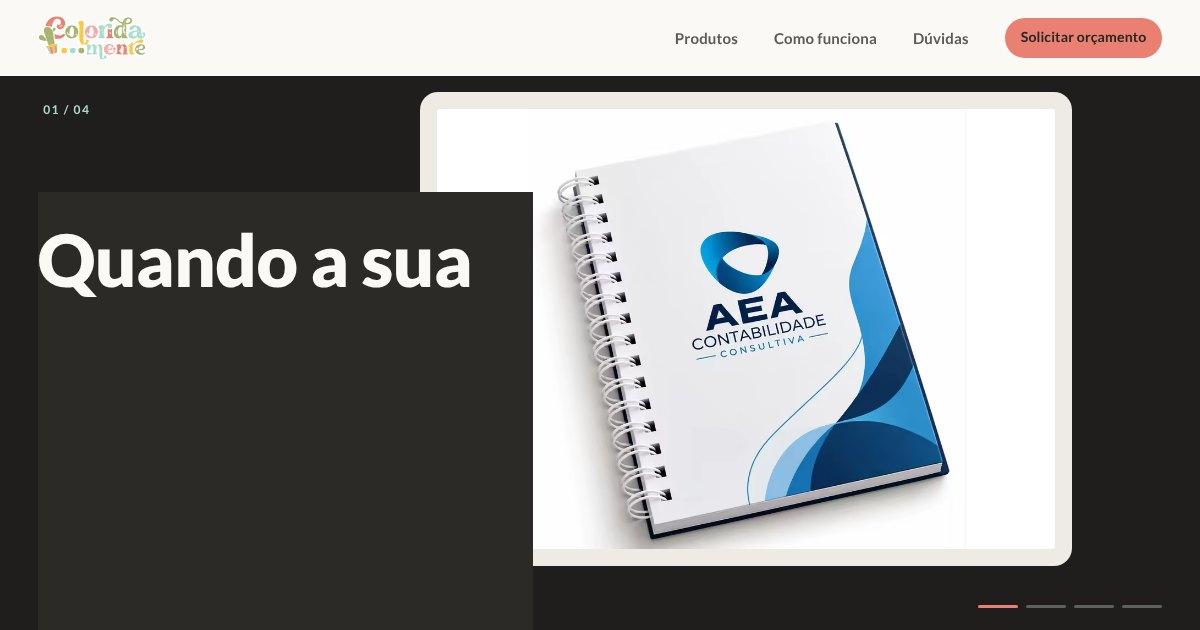
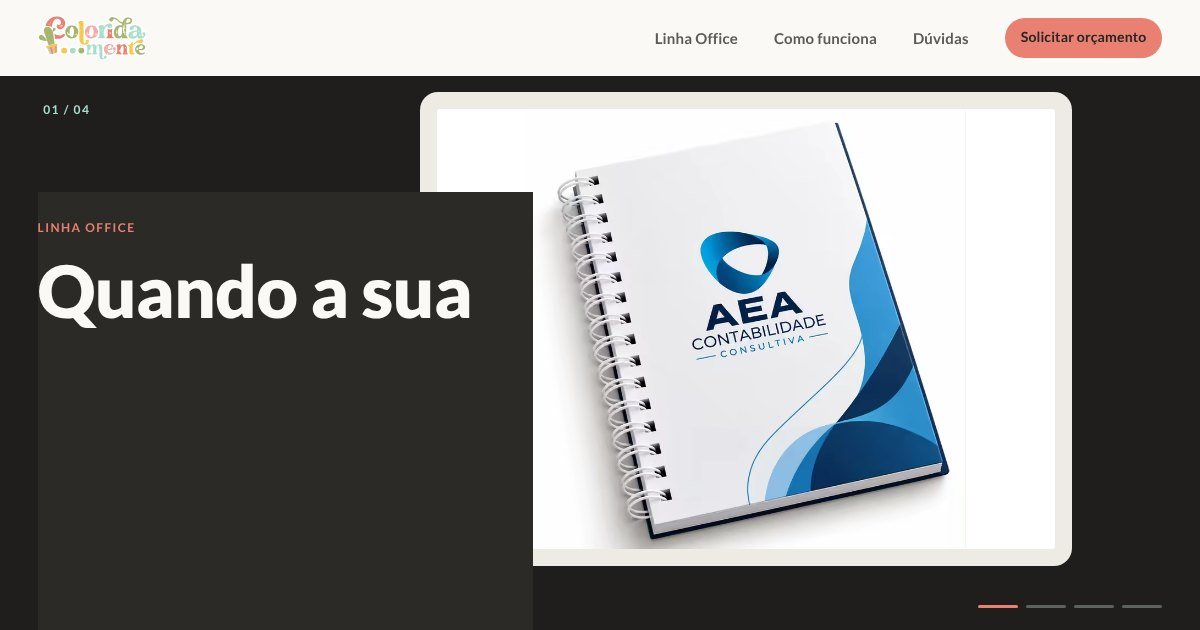
Site passa a vender a Linha Office
Etiqueta do hero, navegação, seção de itens ("Monte a sua Linha
Office"), novo bloco "Linha Office completa" com todos os itens no
mesmo pedido, pergunta "O que vem na Linha Office?", fechamento,
metadados e todas as mensagens de WhatsApp identificando a Linha Office.
Imagens de compartilhamento regeradas.

Claude-Session: https://claude.ai/code/session_016HvwGFXjY8Fn2UzpmPKR8j

Changed region(s): [[0.0308, 0.3317, 0.4008, 0.5429], [0.555, 0.0302, 0.6167, 0.0905]]

diff --git a/tests/institucional.spec.ts b/tests/institucional.spec.ts
@@ -5,33 +5,37 @@ test.describe('proposta 04 — institucional premium', () => {
   test('hero com etiqueta, título, texto, CTA e categorias', async ({ page }) => {
     await page.goto('/');
     const hero = page.locator('section').first();
-    await expect(hero.getByText('Produtos personalizados para empresas')).toBeVisible();
+    await expect(hero.getByText('Linha Office', { exact: true })).toBeVisible();
     await expect(hero.locator('h1')).toBeVisible();
-    await expect(hero.getByText(/receba o seu orçamento pelo WhatsApp/)).toBeVisible();
-    const cta = hero.getByRole('link', { name: /Solicitar orçamento/ });
+    await expect(hero.getByText(/A Linha Office reúne agenda, cadernos e acessórios/)).toBeVisible();
+    const cta = hero.getByRole('link', { name: /Quero a Linha Office/ });
     await expect(cta).toBeVisible();
     expect(await cta.getAttribute('href')).toContain(`wa.me/${WHATSAPP_NUMBER}`);
-    for (const tag of ['Papelaria', 'Corporativo', 'Acessórios para escritório']) await expect(hero.getByText(tag, { exact: true })).toBeVisible();
+    for (const tag of ['Agenda', 'Cadernos', 'Acessórios para escritório']) await expect(hero.getByText(tag, { exact: true })).toBeVisible();
     const bg = await hero.evaluate((el) => getComputedStyle(el).backgroundColor);
     expect(bg).toBe('rgb(250, 249, 245)'); // paper #FAF9F5
-    await expect(hero.getByRole('link', { name: /Ver produtos/ })).toHaveAttribute('href', '#produtos');
+    await expect(hero.getByRole('link', { name: /Ver a linha/ })).toHaveAttribute('href', '#produtos');
     await expect(page.locator('header img[alt="Coloridamente"]')).toBeVisible();
   });
 
   test('ocasiões, produtos (um caderno só, com opção sem pauta) e etapas', async ({ page }) => {
     await page.goto('/');
     expect(await page.locator('#ocasioes h3').allTextContents()).toEqual(OCCASIONS);
-    const names = await page.locator('#produtos h3').allTextContents();
+    const names = await page.locator('#produtos li h3').allTextContents();
     expect(names).toEqual(PRODUCTS);
     await expect(page.locator('#produtos')).toContainText('Também disponível com folhas sem pauta.');
     await expect(page.locator('#produtos').getByRole('link', { name: /Quero orçamento deste/ })).toHaveCount(PRODUCTS.length);
+    // oferta da linha completa, com mensagem própria
+    const full = page.locator('#produtos').getByRole('link', { name: /Quero a Linha Office completa/ });
+    await expect(full).toBeVisible();
+    expect(decodeURIComponent((await full.getAttribute('href'))!)).toContain('orçamento de: Linha Office completa.');
     await expect(page.locator('#como-funciona li')).toHaveCount(4);
   });
 
   test('âncoras do menu levam às seções', async ({ page, isMobile }) => {
     test.skip(isMobile, 'no mobile o menu mostra só a pílula de orçamento');
     await page.goto('/');
-    await page.locator('header').getByRole('link', { name: 'Produtos' }).click();
+    await page.locator('header').getByRole('link', { name: 'Linha Office' }).click();
     await expect(page).toHaveURL(/#produtos$/);
     await expect(page.locator('#produtos h2')).toBeInViewport();
     await page.locator('header').getByRole('link', { name: 'Dúvidas' }).click();

diff --git a/src/components/shared/LineOffer.tsx b/src/components/shared/LineOffer.tsx
@@ -1,0 +1,53 @@
+import { productMessage, site, whatsappUrl } from '@/config/site';
+import { products } from '@/data/products';
+import { Pill } from './Pill';
+import { ProductPicture } from './ProductPicture';
+
+type Tone = 'light' | 'dark';
+
+const styles: Record<Tone, { box: string; text: string; label: string }> = {
+  // Contraste com a seção: grafite sobre a página clara, papel sobre a página escura.
+  light: { box: 'on-dark bg-graphite text-paper', text: 'text-on-dark', label: 'text-coral' },
+  dark: { box: 'bg-paper text-ink', text: 'text-soft', label: 'text-soft' },
+};
+
+/** Oferta da linha completa: todos os itens no mesmo pedido (âncora do funil). */
+export function LineOffer({ tone, className = '' }: { tone: Tone; className?: string }) {
+  const s = styles[tone];
+  return (
+    <aside aria-labelledby="linha-completa-titulo" className={`rounded-md p-6 sm:p-10 lg:p-12 ${s.box} ${className}`}>
+      <div className="grid gap-10 lg:grid-cols-12 lg:items-center">
+        <div className="lg:col-span-6">
+          <p className={`text-label ${s.label}`}>{site.line} completa</p>
+          <h3 id="linha-completa-titulo" className="mt-4 text-display-2">
+            Todos os itens no mesmo pedido.
+          </h3>
+          <p className={`mt-4 max-w-[46ch] text-lead ${s.text}`}>
+            Agenda, cadernos e acessórios para escritório com a mesma identidade visual, para a sua marca aparecer
+            inteira na mesa de cada pessoa.
+          </p>
+          <Pill
+            href={whatsappUrl(productMessage(`${site.line} completa`))}
+            whatsapp
+            size="lg"
+            arrow="upright"
+            className="mt-8 w-full sm:w-auto"
+          >
+            Quero a {site.line} completa
+          </Pill>
+        </div>
+        <ul role="list" className="grid grid-cols-2 gap-3 lg:col-span-6">
+          {products.map((product) => (
+            <li key={product.id} className="overflow-hidden rounded-sm bg-white">
+              <ProductPicture
+                product={product}
+                sizes="(min-width: 1024px) 18vw, 45vw"
+                imgClassName="aspect-[4/3] h-auto w-full object-contain"
+              />
+            </li>
+          ))}
+        </ul>
+      </div>
+    </aside>
+  );
+}

diff --git a/src/pages/institucional/Hero.tsx b/src/pages/institucional/Hero.tsx
@@ -4,11 +4,11 @@ import { Pill } from '@/components/shared/Pill';
 import { ProductPicture, productById } from '@/components/shared/ProductPicture';
 
 const TITLE = ['Uma marca forte', 'também se vê', 'nos detalhes.'];
-const TAGS = ['Papelaria', 'Corporativo', 'Acessórios para escritório'];
+const TAGS = ['Agenda', 'Cadernos', 'Acessórios para escritório'];
 
 const delay = (s: number) => ({ animationDelay: `${s}s` });
 
-/** Hero da proposta 04 — promessa, prova visual e CTA de orçamento acima da dobra. */
+/** Hero da proposta 04 — apresenta a Linha Office com promessa, prova visual e CTA acima da dobra. */
 export function Hero() {
   const agenda = productById(products, 'agenda-2027');
   return (
@@ -19,7 +19,7 @@ export function Hero() {
             className="enter-wipe inline-flex rounded-full bg-card px-4 py-2 text-label max-sm:text-[0.6875rem] max-sm:tracking-[0.08em]"
             style={delay(0.3)}
           >
-            Produtos personalizados para empresas
+            Linha Office
           </p>
           <h1 id="hero-titulo" className="mt-7 text-display-1">
             {TITLE.map((line, i) => (
@@ -32,15 +32,15 @@ export function Hero() {
             ))}
           </h1>
           <p className="enter-fade mt-6 measure text-lead text-soft" style={delay(0.8)}>
-            Agendas, cadernos, brindes e acessórios para escritório com a identidade visual da sua empresa. Conte o que
-            você precisa e receba o seu orçamento pelo WhatsApp.
+            A Linha Office reúne agenda, cadernos e acessórios para escritório com a identidade visual da sua empresa.
+            Escolha os itens e receba o seu orçamento pelo WhatsApp.
           </p>
           <div className="enter-fade mt-10 flex flex-wrap items-center gap-3" style={delay(0.95)}>
             <Pill href={whatsappUrl()} whatsapp size="lg" arrow="upright">
-              Solicitar orçamento
+              Quero a Linha Office
             </Pill>
             <Pill href="#produtos" tone="outline" size="lg" arrow="down">
-              Ver produtos
+              Ver a linha
             </Pill>
           </div>
           {hasWhatsAppNumber && (

diff --git a/src/pages/institucional/Products.tsx b/src/pages/institucional/Products.tsx
@@ -2,22 +2,23 @@ import { productMessage, whatsappUrl } from '@/config/site';
 import { getCategory } from '@/data/categories';
 import { products } from '@/data/products';
 import { Pill } from '@/components/shared/Pill';
+import { LineOffer } from '@/components/shared/LineOffer';
 import { ProductPicture } from '@/components/shared/ProductPicture';
 
-/** Desejo: cada produto com o próprio CTA de orçamento (mensagem já com o nome do item). */
+/** Desejo: os itens da Linha Office, cada um com o próprio CTA, e a oferta da linha completa. */
 export function Products() {
   return (
     <section id="produtos" aria-labelledby="produtos-titulo" className="border-t border-line bg-paper py-section">
       <div className="container-page">
         <div className="grid gap-6 lg:grid-cols-12 lg:items-end">
           <div className="lg:col-span-7">
-            <p className="text-label text-soft">Produtos</p>
+            <p className="text-label text-soft">Linha Office</p>
             <h2 id="produtos-titulo" className="mt-4 text-display-2">
-              Escolha o ponto de partida.
+              Monte a sua Linha Office.
             </h2>
           </div>
           <p className="text-lead text-soft lg:col-span-4 lg:col-start-9">
-            Exemplos de produtos personalizados com a identidade visual de uma empresa. Escolha um e peça o orçamento.
+            Cada item recebe a identidade visual da sua empresa. Peça a linha completa ou só os itens de que precisa.
           </p>
         </div>
         <ul role="list" className="mt-14 grid gap-x-8 gap-y-16 sm:grid-cols-2 lg:mt-20">
@@ -48,6 +49,7 @@ export function Products() {
             </li>
           ))}
         </ul>
+        <LineOffer tone="light" className="mt-16 lg:mt-24" />
       </div>
     </section>
   );

diff --git a/index.html b/index.html
@@ -3,8 +3,8 @@
   <head>
     <meta charset="UTF-8" />
     <meta name="viewport" content="width=device-width, initial-scale=1, viewport-fit=cover" />
-    <title>Coloridamente | Uma marca forte também se vê nos detalhes</title>
-    <meta name="description" content="Agendas, cadernos, papelaria corporativa, brindes e acessórios para escritório personalizados com a identidade da sua empresa. Solicite sua proposta pelo WhatsApp." />
+    <title>Linha Office | Coloridamente: agenda, cadernos e acessórios com a sua marca</title>
+    <meta name="description" content="Linha Office da Coloridamente: agenda, cadernos e acessórios para escritório personalizados com a identidade da sua empresa. Peça seu orçamento pelo WhatsApp." />
     <meta name="theme-color" content="#FAF9F5" />
     <meta name="color-scheme" content="light" />
 
@@ -17,8 +17,8 @@
     <meta property="og:type" content="website" />
     <meta property="og:locale" content="pt_BR" />
     <meta property="og:site_name" content="Coloridamente" />
-    <meta property="og:title" content="Coloridamente | Uma marca forte também se vê nos detalhes" />
-    <meta property="og:description" content="Agendas, cadernos, brindes e acessórios para escritório personalizados com a identidade da sua empresa." />
+    <meta property="og:title" content="Linha Office | Coloridamente" />
+    <meta property="og:description" content="Agenda, cadernos e acessórios para escritório personalizados com a identidade da sua empresa." />
     <meta property="og:image" content="/og-image.jpg" />
     <meta property="og:image:width" content="1200" />
     <meta property="og:image:height" content="630" />

diff --git a/cinematografico/index.html b/cinematografico/index.html
@@ -3,8 +3,8 @@
   <head>
     <meta charset="UTF-8" />
     <meta name="viewport" content="width=device-width, initial-scale=1, viewport-fit=cover" />
-    <title>Coloridamente | Quando a sua marca ganha forma</title>
-    <meta name="description" content="Uma experiência para descobrir, ao rolar a página, os produtos personalizados da Coloridamente: cadernos, agendas e acessórios para escritório com a sua marca." />
+    <title>Linha Office | Coloridamente: quando a sua marca ganha forma</title>
+    <meta name="description" content="Conheça, ao rolar a página, a Linha Office da Coloridamente: cadernos, agenda e acessórios para escritório com a sua marca. Peça seu orçamento pelo WhatsApp." />
     <meta name="theme-color" content="#FAF9F5" />
     <meta name="color-scheme" content="light" />
 
@@ -17,8 +17,8 @@
     <meta property="og:type" content="website" />
     <meta property="og:locale" content="pt_BR" />
     <meta property="og:site_name" content="Coloridamente" />
-    <meta property="og:title" content="Coloridamente | Quando a sua marca ganha forma" />
-    <meta property="og:description" content="Agendas, cadernos, brindes e acessórios para escritório personalizados com a identidade da sua empresa." />
+    <meta property="og:title" content="Linha Office | Coloridamente" />
+    <meta property="og:description" content="Agenda, cadernos e acessórios para escritório personalizados com a identidade da sua empresa." />
     <meta property="og:image" content="/og-cinematografico.jpg" />
     <meta property="og:image:width" content="1200" />
     <meta property="og:image:height" content="630" />

diff --git a/tests/support.ts b/tests/support.ts
@@ -2,9 +2,9 @@ import { expect, type Page } from '@playwright/test';
 
 /** Número esperado nos links (o mesmo do `.env`); sobrescreva com E2E_WHATSAPP_NUMBER. */
 export const WHATSAPP_NUMBER = process.env.E2E_WHATSAPP_NUMBER ?? '5512991338866';
-export const DEFAULT_MESSAGE = 'Olá! Conheci a Coloridamente pelo site e gostaria de solicitar um orçamento.';
+export const DEFAULT_MESSAGE = 'Olá! Conheci a Linha Office da Coloridamente pelo site e gostaria de solicitar um orçamento.';
 export const productMessage = (name: string) =>
-  `Olá! Conheci a Coloridamente pelo site e gostaria de solicitar um orçamento de: ${name}.`;
+  `Olá! Conheci a Linha Office da Coloridamente pelo site e gostaria de solicitar um orçamento de: ${name}.`;
 
 export const PAGES = [
   { path: '/', name: 'institucional', h1: 'Uma marca forte também se vê nos detalhes.' },
@@ -21,7 +21,7 @@ export const PRODUCTS = [
 export const OCCASIONS = ['Boas-vindas à equipe', 'Presentes para clientes', 'Eventos e feiras', 'Dia a dia do escritório'];
 
 /** Toda mensagem de WhatsApp começa assim (padrão, por produto ou por ocasião). */
-export const MESSAGE_PREFIX = 'Olá! Conheci a Coloridamente pelo site e gostaria de solicitar um orçamento';
+export const MESSAGE_PREFIX = 'Olá! Conheci a Linha Office da Coloridamente pelo site e gostaria de solicitar um orçamento';
 
 /** Coleta erros de console, exceções e respostas com falha durante o teste. */
 export function trackProblems(page: Page) {

diff --git a/src/pages/cinematografico/ProductReel.tsx b/src/pages/cinematografico/ProductReel.tsx
@@ -3,6 +3,7 @@ import { productMessage, whatsappUrl } from '@/config/site';
 import { getCategory } from '@/data/categories';
 import { products } from '@/data/products';
 import { gsap } from '@/lib/gsap';
+import { LineOffer } from '@/components/shared/LineOffer';
 import { Pill } from '@/components/shared/Pill';
 import { ProductPicture } from '@/components/shared/ProductPicture';
 
@@ -30,13 +31,13 @@ export function ProductReel() {
       <div className="container-page">
         <div className="grid gap-6 lg:grid-cols-12 lg:items-end">
           <div className="lg:col-span-7">
-            <p className="text-label text-mint-ink">Produtos</p>
+            <p className="text-label text-coral">Linha Office</p>
             <h2 id="produtos-titulo" className="mt-4 text-display-2">
-              Cada produto, um detalhe da sua marca.
+              Cada item, um detalhe da sua marca.
             </h2>
           </div>
           <p className="text-lead text-on-dark lg:col-span-4 lg:col-start-9">
-            Exemplos de produtos personalizados com a identidade visual de uma empresa.
+            Agenda, cadernos e acessórios para escritório com a identidade visual da sua empresa.
           </p>
         </div>
 
@@ -81,6 +82,7 @@ export function ProductReel() {
             );
           })}
         </ol>
+        <LineOffer tone="dark" className="mt-24 lg:mt-32" />
       </div>
     </section>
   );

diff --git a/src/config/site.ts b/src/config/site.ts
@@ -6,9 +6,11 @@ const whatsappNumber = (import.meta.env.VITE_WHATSAPP_NUMBER ?? '').replace(/\D/
 
 export const site = {
   name: 'Coloridamente',
+  /** Produto vendido pelo site. */
+  line: 'Linha Office',
   whatsapp: {
     number: whatsappNumber,
-    defaultMessage: 'Olá! Conheci a Coloridamente pelo site e gostaria de solicitar um orçamento.',
+    defaultMessage: 'Olá! Conheci a Linha Office da Coloridamente pelo site e gostaria de solicitar um orçamento.',
   },
   /** As duas páginas do site (propostas 04 e 05). */
   pages: {
@@ -34,10 +36,10 @@ export function whatsappUrl(message: string = site.whatsapp.defaultMessage): str
 
 /** Mensagem para pedir orçamento de um item específico da galeria. */
 export function productMessage(productName: string): string {
-  return `Olá! Conheci a Coloridamente pelo site e gostaria de solicitar um orçamento de: ${productName}.`;
+  return `Olá! Conheci a Linha Office da Coloridamente pelo site e gostaria de solicitar um orçamento de: ${productName}.`;
 }
 
 /** Mensagem para pedir orçamento a partir de uma ocasião (ex.: "boas-vindas à equipe"). */
 export function occasionMessage(occasion: string): string {
-  return `Olá! Conheci a Coloridamente pelo site e gostaria de solicitar um orçamento para: ${occasion}.`;
+  return `Olá! Conheci a Linha Office da Coloridamente pelo site e gostaria de solicitar um orçamento para: ${occasion}.`;
 }

diff --git a/src/data/funnel.ts b/src/data/funnel.ts
@@ -31,14 +31,14 @@ export const occasions = [
 
 export const faq = [
   {
+    question: 'O que vem na Linha Office?',
+    answer:
+      'Agenda, cadernos (com ou sem pauta) e acessórios para escritório, como porta-canetas, suporte de celular, organizador para óculos e caneta e porta-clipes, todos com a identidade da sua empresa. Você pode pedir a linha completa ou só os itens que quiser.',
+  },
+  {
     question: 'Como faço para pedir um orçamento?',
     answer:
       'Toque em “Solicitar orçamento” e conte pelo WhatsApp qual produto você quer, a quantidade aproximada e como imagina a personalização.',
-  },
-  {
-    question: 'Quais produtos posso personalizar?',
-    answer:
-      'Agendas, cadernos (com ou sem pauta), papelaria corporativa, brindes e acessórios para escritório, como porta-canetas, suporte de celular e organizadores.',
   },
   {
     question: 'Posso usar a identidade visual da minha empresa?',

diff --git a/src/pages/cinematografico/Quote.tsx b/src/pages/cinematografico/Quote.tsx
@@ -9,12 +9,12 @@ export function Quote() {
           <div className="lg:col-span-7">
             <div className="color-bar h-1 w-24" aria-hidden="true" />
             <h2 id="orcamento-titulo" className="mt-8 text-display-1">
-              Vamos criar algo com a sua marca?
+              Vamos montar a Linha Office da sua empresa?
             </h2>
           </div>
           <div className="lg:col-span-4 lg:col-start-9">
             <p className="text-lead text-on-dark">
-              Conte o que você precisa e vamos transformar sua ideia em um produto personalizado.
+              Conte quais itens você quer e para quantas pessoas. A gente responde com o orçamento pelo WhatsApp.
             </p>
             <Pill href={whatsappUrl()} whatsapp size="lg" arrow="upright" className="mt-8 w-full sm:w-auto">
               Solicitar orçamento

diff --git a/src/pages/institucional/QuoteBand.tsx b/src/pages/institucional/QuoteBand.tsx
@@ -9,11 +9,11 @@ export function QuoteBand() {
         <div className="lg:col-span-7">
           <div className="color-bar h-1 w-24" aria-hidden="true" />
           <h2 id="orcamento-titulo" className="mt-8 text-display-1">
-            Vamos criar algo com a sua marca?
+            Vamos montar a Linha Office da sua empresa?
           </h2>
         </div>
         <div className="lg:col-span-4 lg:col-start-9">
-          <p className="text-lead">Conte o que você precisa e vamos transformar sua ideia em um produto personalizado.</p>
+          <p className="text-lead">Conte quais itens você quer e para quantas pessoas. A gente responde com o orçamento pelo WhatsApp.</p>
           <Pill href={whatsappUrl()} whatsapp tone="ink" size="lg" arrow="upright" className="mt-8 w-full sm:w-auto">
             Solicitar orçamento
           </Pill>
